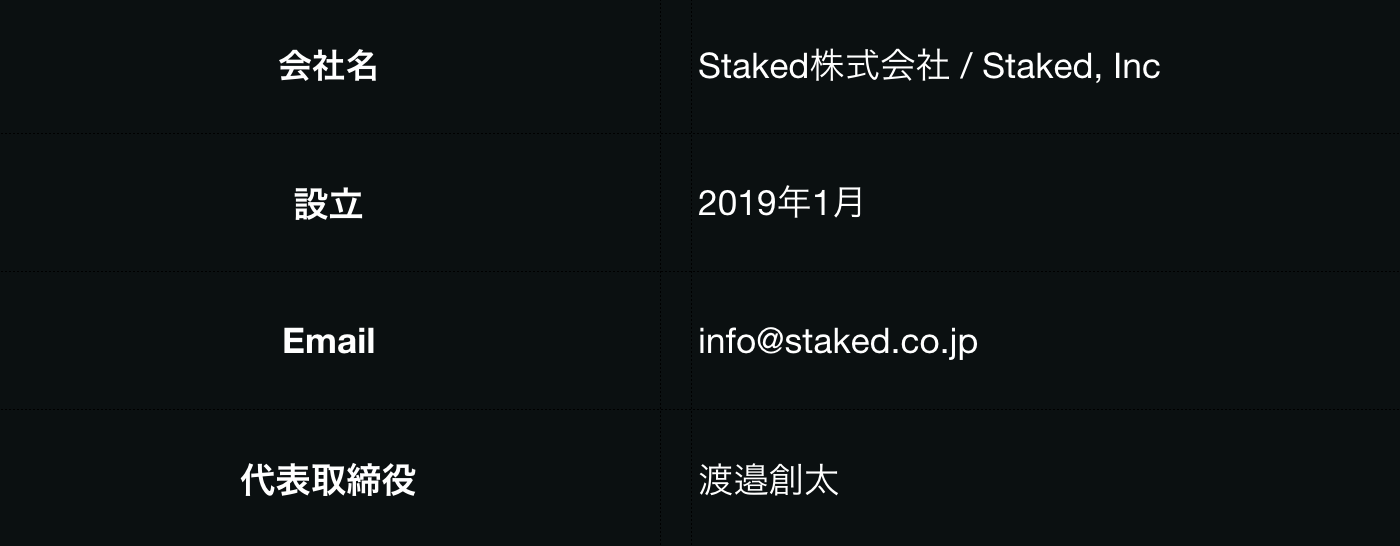
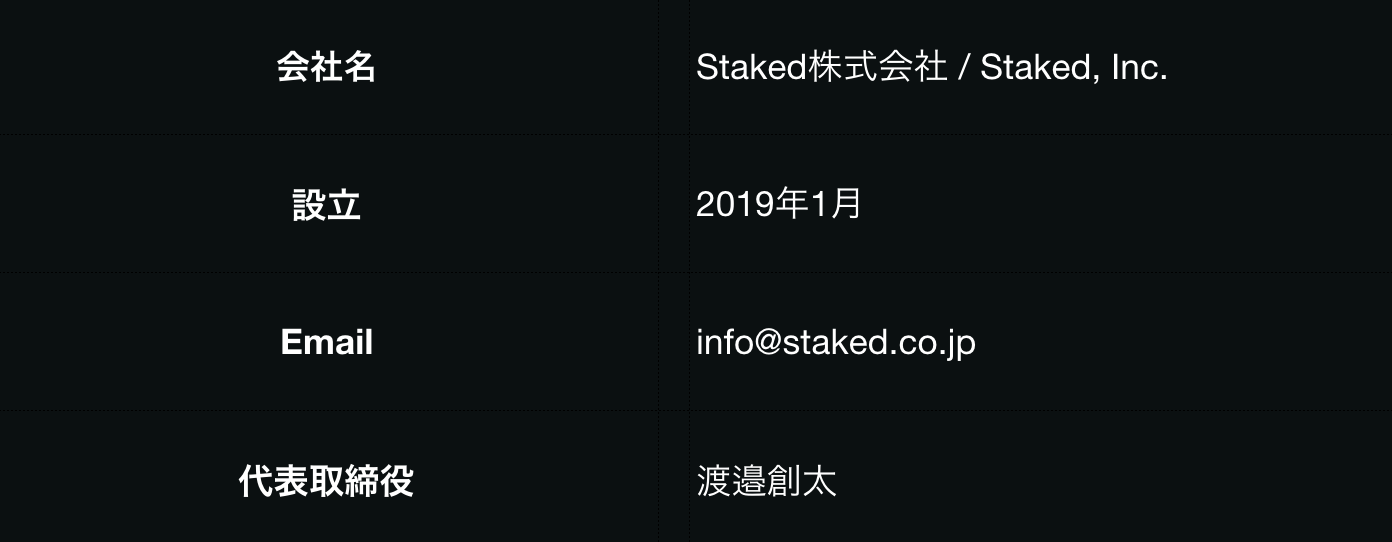
change product description

diff --git a/index.html b/index.html
@@ -2,15 +2,37 @@
 <html lang="en">
 
 <head>
+    <!-- Global site tag (gtag.js) - Google Analytics -->
+    <script async src="https://www.googletagmanager.com/gtag/js?id=UA-133165301-1"></script>
+    <script>
+    window.dataLayer = window.dataLayer || [];
+    function gtag(){dataLayer.push(arguments);}
+    gtag('js', new Date());
+
+    gtag('config', 'UA-133165301-1');
+    </script>
+
     <meta charset="utf-8" />
     <link rel="icon" type="image/png" href="assets/img/staked-icon.png">
     <link rel="apple-touch-icon" sizes="76x76" href="assets/img/staked-icon.png">
     <meta http-equiv="X-UA-Compatible" content="IE=edge,chrome=1" />
 
+    <head prefix="og: https://ogp.me/ns# fb: http://ogp.me/ns/fb# article: https://ogp.me/ns/article#">
     <title>Staked: Re-Build Digital Economy Where Everyone Belongs</title>
+    <meta property="og:title" content="Staked, Inc." />
+    <meta property="og:url" content="https://staked.co.jp" />
+    <meta property="og:type" content="website" />
+    <meta property="og:site_name" content="Staked, Inc." />
+    <meta name="description" content="Staked, Inc is a blockchain company who focuses on making decentralized protocols.">
+    <meta property="og:image" content="https://staked.co.jp/assets/img/staked.jpg" />
 
-    <meta content='width=device-width, initial-scale=1.0, maximum-scale=1.0, user-scalable=0' name='viewport' />
-    <meta name="viewport" content="width=device-width" />
+    <meta data-n-head="true" data-hid="twitterCard" property="twitter:card" content="summary_large_image">
+
+    <meta data-n-head="true" data-hid="appleMobileWebAppCapable" name="apple-mobile-web-app-capable" content="yes">
+    <meta data-n-head="true" data-hid="appleMobileWebAppStatusBarStyle" name="apple-mobile-web-app-status-bar-style" content="black-translucent">
+
+
+    <meta content='width=device-width, initial-scale=1.0' name='viewport' />    
 
     <!-- Bootstrap core CSS     -->
 	<link href="assets/css/bootstrap.min.css" rel="stylesheet" />
@@ -20,9 +42,13 @@
 	<link href="assets/css/demo.css" rel="stylesheet" />
 
     <!--     Fonts and icons     -->
-    <link href='http://fonts.googleapis.com/css?family=Montserrat:400,300,700' rel='stylesheet' type='text/css'>
-    <link href="http://maxcdn.bootstrapcdn.com/font-awesome/latest/css/font-awesome.min.css" rel="stylesheet">
+    <link href='https://fonts.googleapis.com/css?family=Montserrat:400,300,700' rel='stylesheet' type='text/css'>
+    <link href="https://maxcdn.bootstrapcdn.com/font-awesome/latest/css/font-awesome.min.css" rel="stylesheet">
     <link href="assets/css/nucleo-icons.css" rel="stylesheet" />
+
+    <!--  G Suit  -->
+    <meta name="google-site-verification" content="5a5vpVMrTIwubQTaqumdGdUIh4IXYTx3SQwi86j1gXk" />
+    <meta name="google-site-verification" content="Fdq_HHxfDLppY7LKGEH1DU6CE1FhWkcygi0LfiT3h0A" />
 
 </head>
 
@@ -35,7 +61,7 @@
                     <span class="navbar-toggler-bar"></span>
                     <span class="navbar-toggler-bar"></span>
                 </button>
-                <a class="navbar-brand">Staked, Inc</a>
+                <a class="navbar-brand">Staked, Inc.</a>
             </div>
             <div class="collapse navbar-collapse" id="navbarToggler">
                 <ul class="navbar-nav ml-auto">
@@ -66,16 +92,10 @@
                     <div class="section section-light">
                         <h2>Product</h2>
                         <div class="row example-page">
-                            <div class="col-md-6 text-center">
+                            <div class="col-md-8 ml-auto mr-auto text-center">
                                 <a href="" target="_blank">
-                                    <img src="assets\img\examples\relayer.jpg" alt="Rounded Image" class="img-rounded img-responsive" style="width: 100%">
-                                    <a href="examples/landing.html" class="btn btn-outline-neutral btn-round" target="_blank">プロダクトを見る</a>
-                                </a>
-                            </div>
-                            <div class="col-md-6 text-center">
-                                <a href="" target="_blank">
-                                    <img src="assets\img\examples\nft.jpg" alt="Rounded Image" class="img-rounded img-responsive" style="width: 100%">
-                                    <a href="" class="btn btn-outline-neutral btn-round" target="_blank">Coming Soon</a>
+                                    <img src="assets\img\examples\logo.jpg" alt="Rounded Image" class="img-rounded img-responsive" style="width: 100%">
+                                    <a href="https://github.com/stakedtechnologies/Plasm" class="btn btn-outline-neutral btn-round" target="_blank">GitHub</a>
                                 </a>
                             </div>
                         </div>
@@ -94,13 +114,13 @@
                             <img src="assets/img/faces/sotawatanabe.jpg" class="img-circle img-no-padding img-responsive" alt="Rounded Image">
                             <h4 class="images-title">Sota Watanabe</h4>
                             <p class="text-left">Co-founder and CEO</p>
-                            <p class="description">インド、ロシア、中国にて計4ヶ月間NPO活動に参加、その後、SoftBank Roboticsのインターンを経てシリコンバレーのブロックチェーンスタートアップChronicledに入社。同社では2017年世界のForbes30 Under30に選出されたチーム・マーケティング・オフィサーと2人3脚でプロジェクトを推進した。帰国後、若者中心のコミュニティーであるCryptoAgeを運営。</p>
+                            <p class="description">インド、ロシア、中国にて計4ヶ月間NPO活動に参加、その後、SoftBank Roboticsのインターンを経てシリコンバレーのブロックチェーンスタートアップChronicledに入社。同社では2017年世界のForbes30 Under30に選出されたチーフ・マーケティング・オフィサーと2人3脚でプロジェクトを推進した。帰国後、Stakedを創業。東京大学大学院工学部ブロックチェーン共同研究員</p>
                         </div>
                         <div class="col-6 col-md-2 mr-auto  ml-auto">
-                            <img src="assets/img/faces/daikisekiguchi.jpg" class="img-circle img-no-padding img-responsive" alt="Rounded Image">
-                            <h4 class="images-title">Daiki Sekiguchi</h4>
+                            <img src="assets/img/faces/takumiyamashita.jpg" class="img-circle img-no-padding img-responsive" alt="Rounded Image">
+                            <h4 class="images-title">Takumi Yamashita</h4>
                             <p class="text-left">Co-founder</p>
-                            <p class="description">学生時代にスタートアップ立ち上げを経験し、イベント企画アプリやチャットアプリを開発。株式会社電縁に就職後はプロダクト担当として社内プロダクトの開発・マーケティング・営業など幅広い分野を担当。同社のブロックチェーン分野では独自トークンの開発やトークンを用いたアプリケーションの設計・開発を行う。その後、ブロックチェーンアプリ専門のフリーランスエンジニアとして独立し、エンゲートではブロックチェーン周りの開発とBitcoinセミナー講師を担当。</p>
+                            <p class="description">国際大学対抗プログコンテストACM-ICPCにて二度世界大会に出場し一度入賞、その後、IPA法人の未踏事業へ採択されハードフォーク無しで合意形成アルゴリズムを動的変更できるブロックチェーンプラットフォーム "Proskenion" をフクルスクラッチ実装。東京大学大学院修士1年。</p>
                         </div>
                     </div>
                 </div>
@@ -158,7 +178,7 @@
                             <div class="card card-register">
                                 <h3 class="title">Contact Us</h3>
                                 <form class="register-form">
-                                    <p>Staked,Incに関するお問い合わせに関しましては以下よりご連絡をお願いいたします。頂いたご連絡に関しましては確認後、数営業日以内にお返しいたします。</p>
+                                    <p>Staked,Inc. に関するお問い合わせに関しましては info@staked.co.jp もしくは、以下よりご連絡をお願いいたします。頂いたご連絡に関しましては確認後、数営業日以内にお返しいたします。</p>
                                         <a href="https://m.me/sotawatanabe0426" class="btn btn-danger btn-block btn-round" target="_blank">Messengerで連絡</a>
                                 </form>
                             </div>
@@ -188,7 +208,7 @@
                 </nav>
                 <div class="credits ml-auto">
                     <span class="copyright">
-                        © <script>document.write(new Date().getFullYear())</script>, Staked, Inc All Right Researved.
+                        © <script>document.write(new Date().getFullYear())</script>, Staked, Inc. All Right Researved.
                     </span>
                 </div>
             </div>

diff --git a/tx.js b/tx.js
@@ -1,0 +1,1 @@
+web3.eth.sendTransaction({from:eth.accounts[0],to:eth.accounts[0],value:web3.toWei(100,'finney'),data:web3.toHex('IamSota')}

diff --git a/google13fe2ebc7d3d5d65.html b/google13fe2ebc7d3d5d65.html
@@ -1,0 +1,1 @@
+google-site-verification: google13fe2ebc7d3d5d65.html
